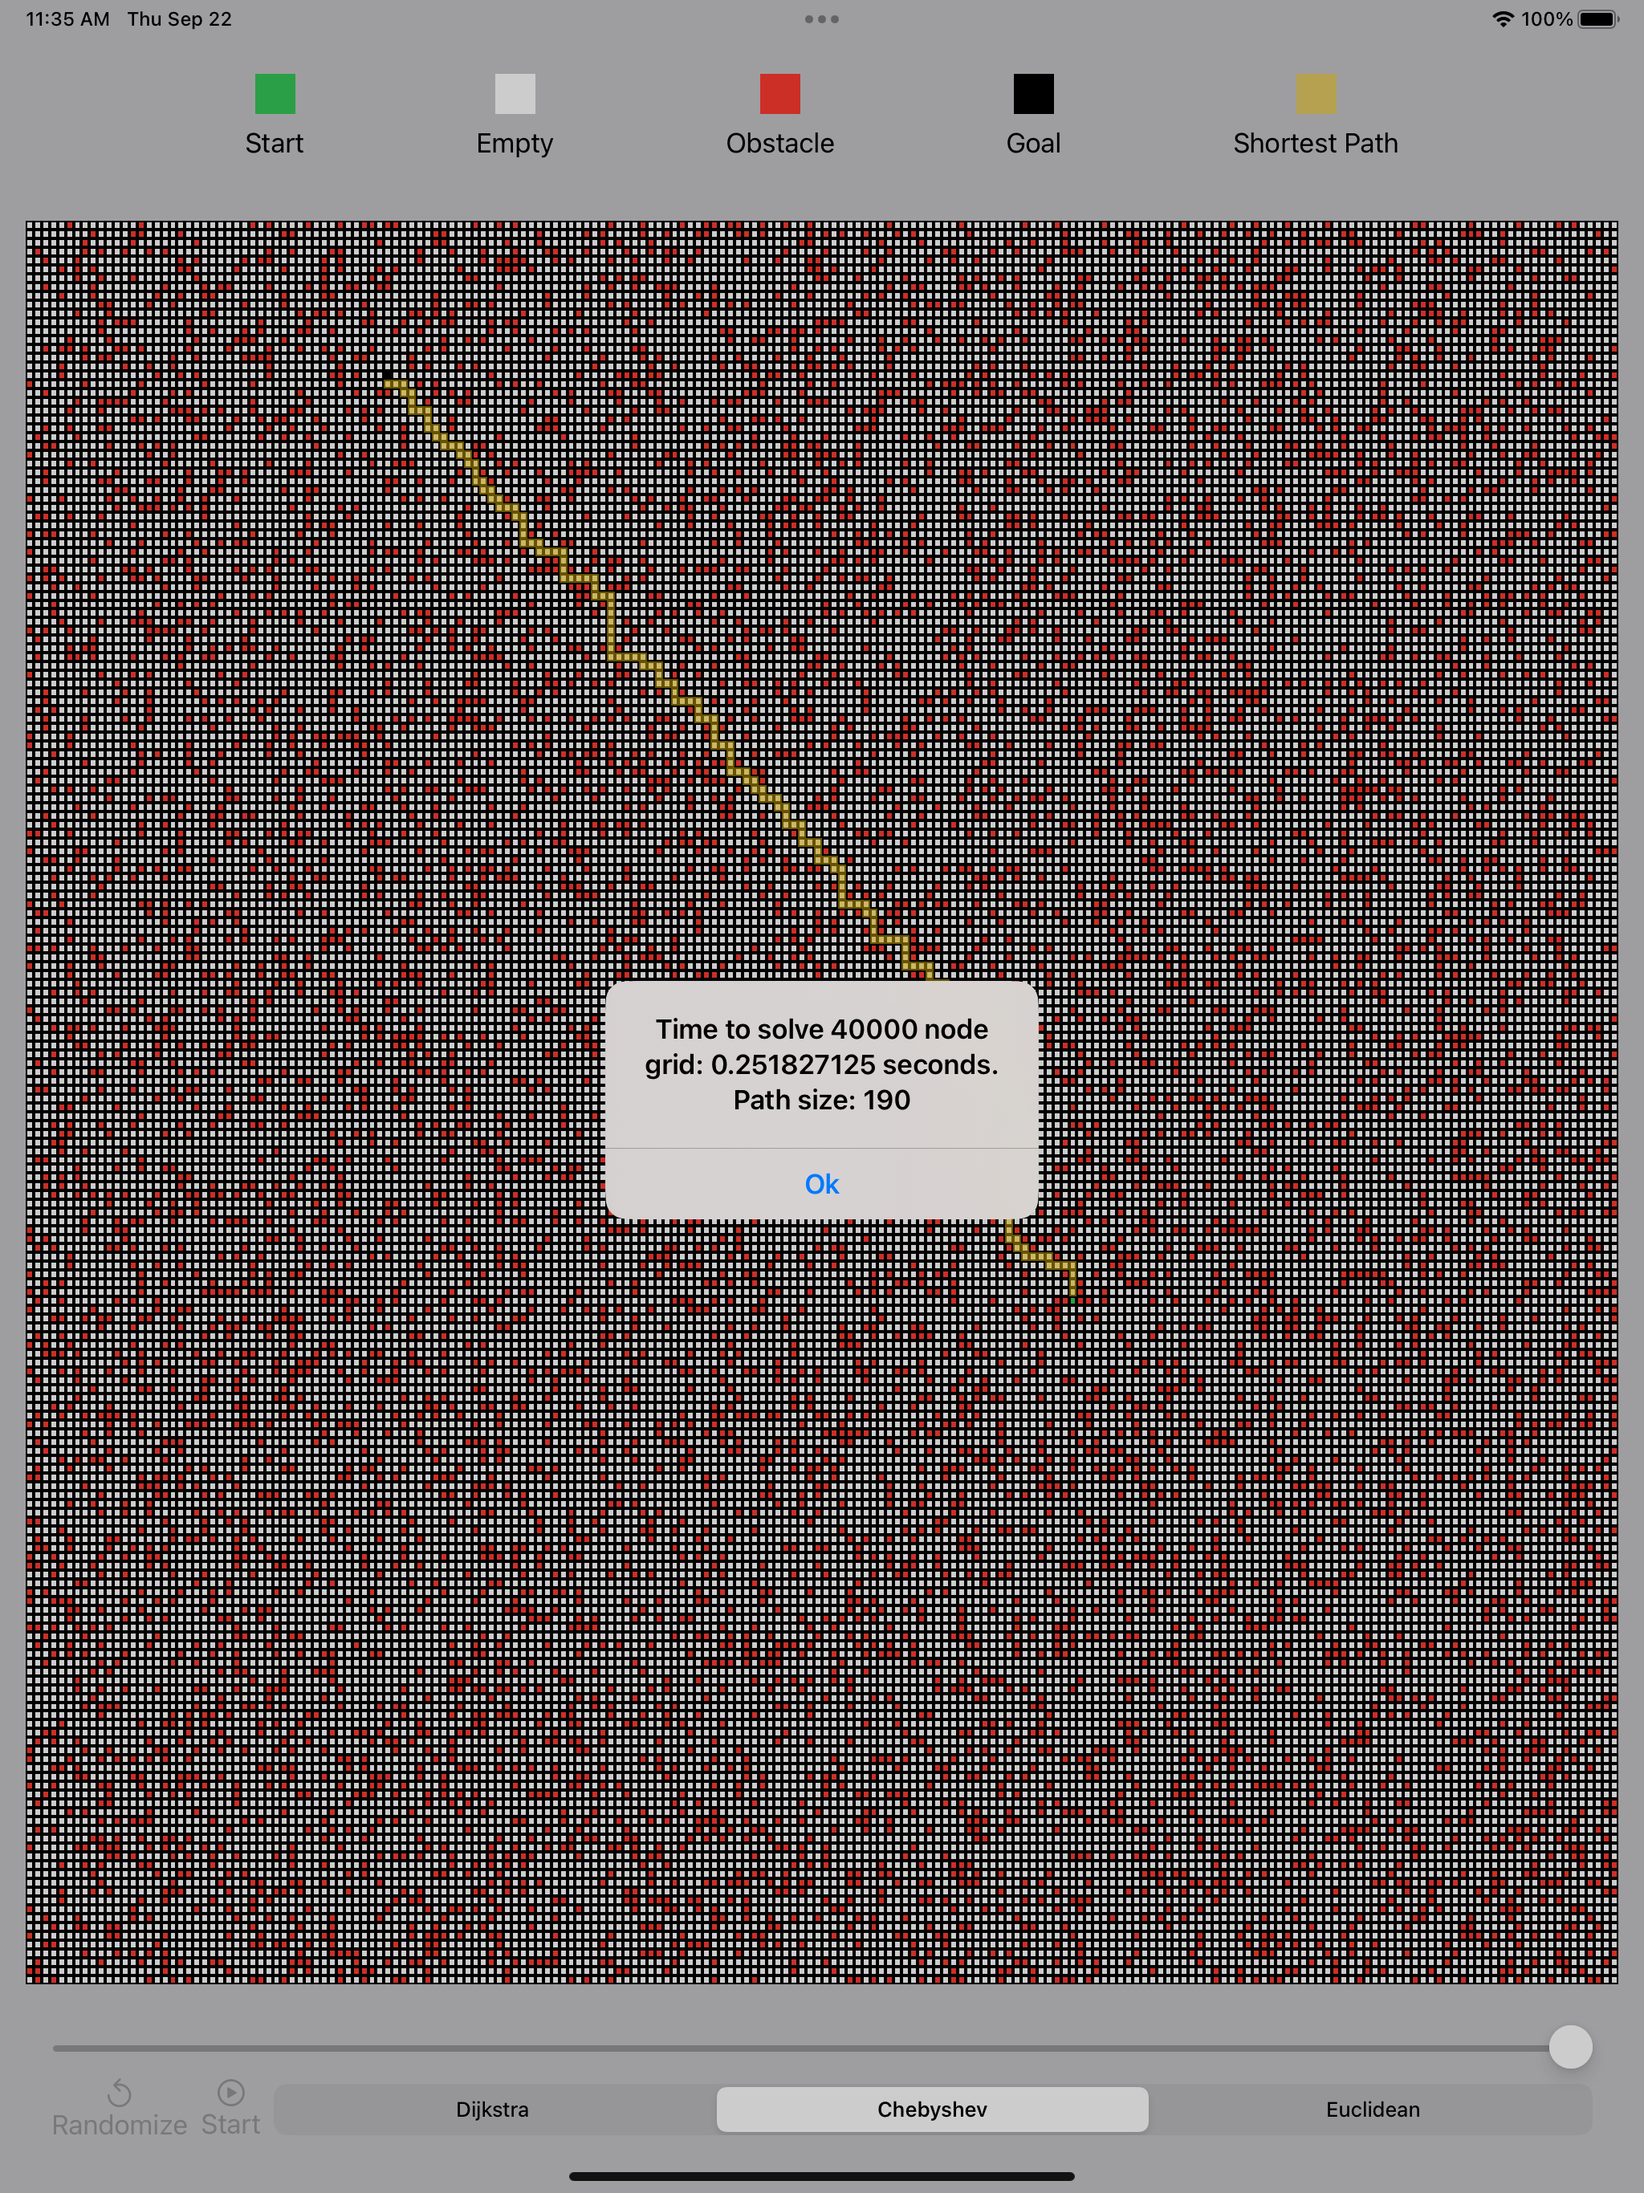
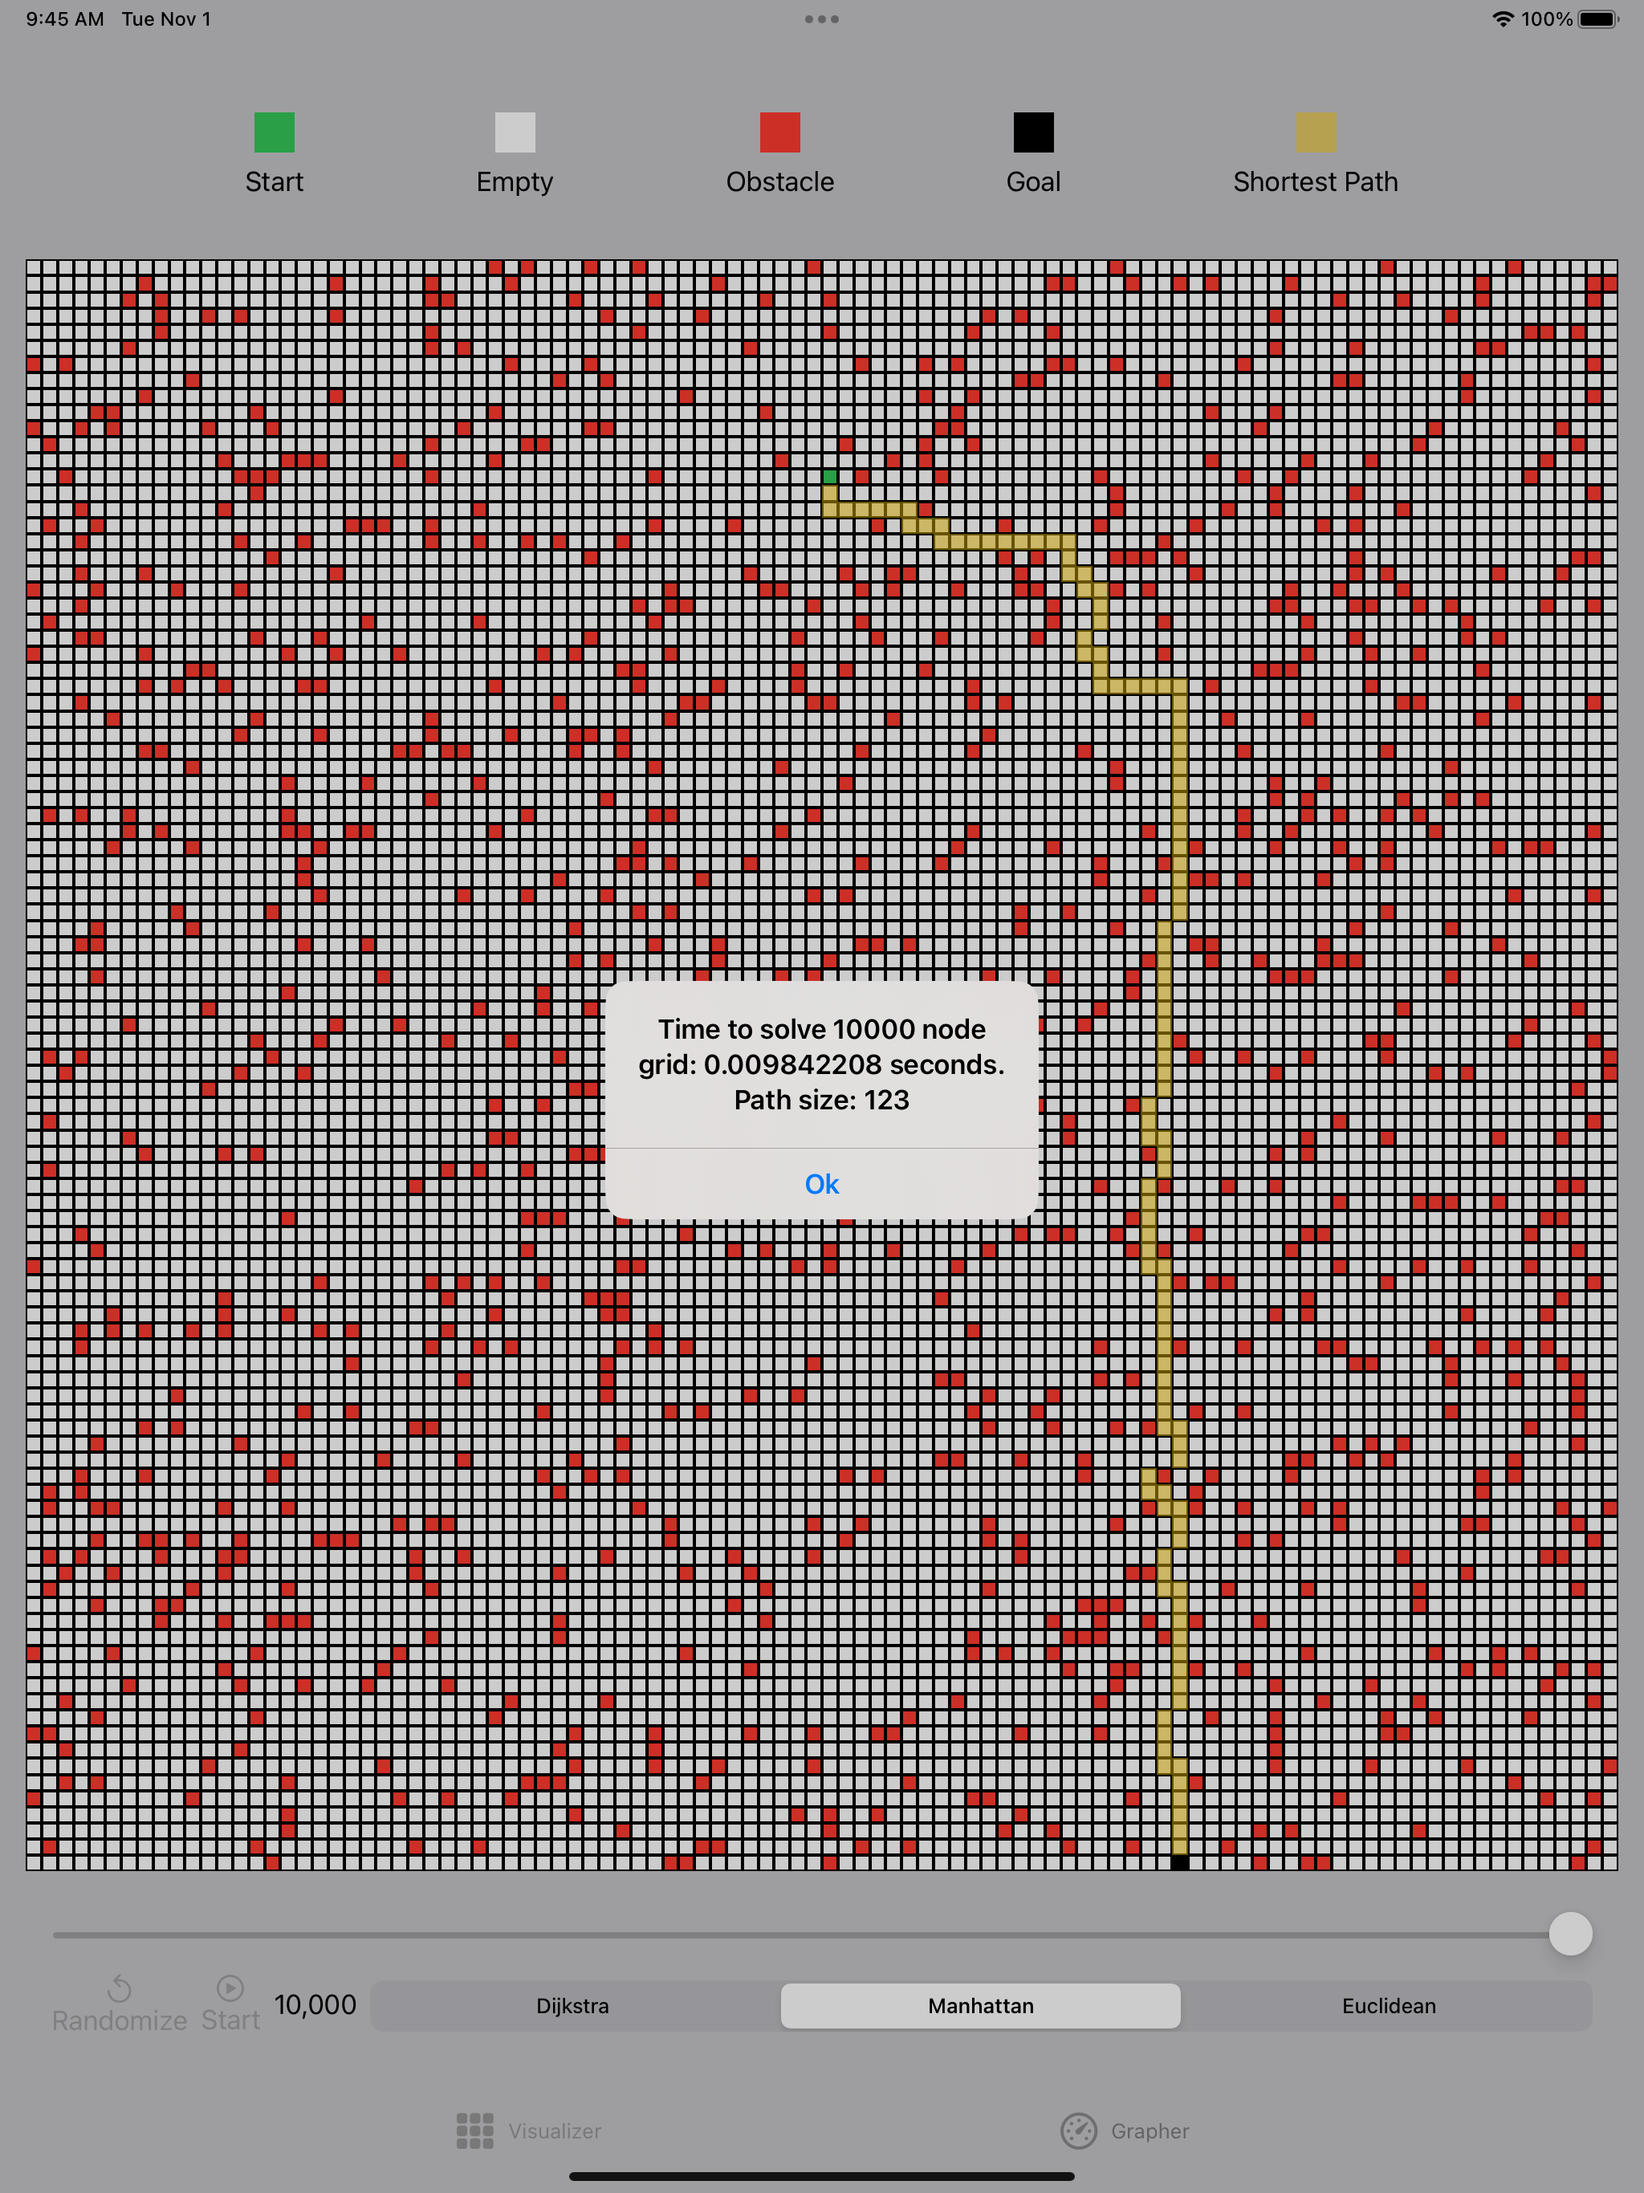
update picture

diff --git a/AStar Search/Views/VisualizerView.swift b/AStar Search/Views/VisualizerView.swift
@@ -92,7 +92,7 @@ struct VisualizerView: View {
             
             // Actions
             VStack {
-                Slider(value: $boardSize, in: 3...50, step: 1)
+                Slider(value: $boardSize, in: 3...100, step: 1)
                 
                 HStack {
                     
